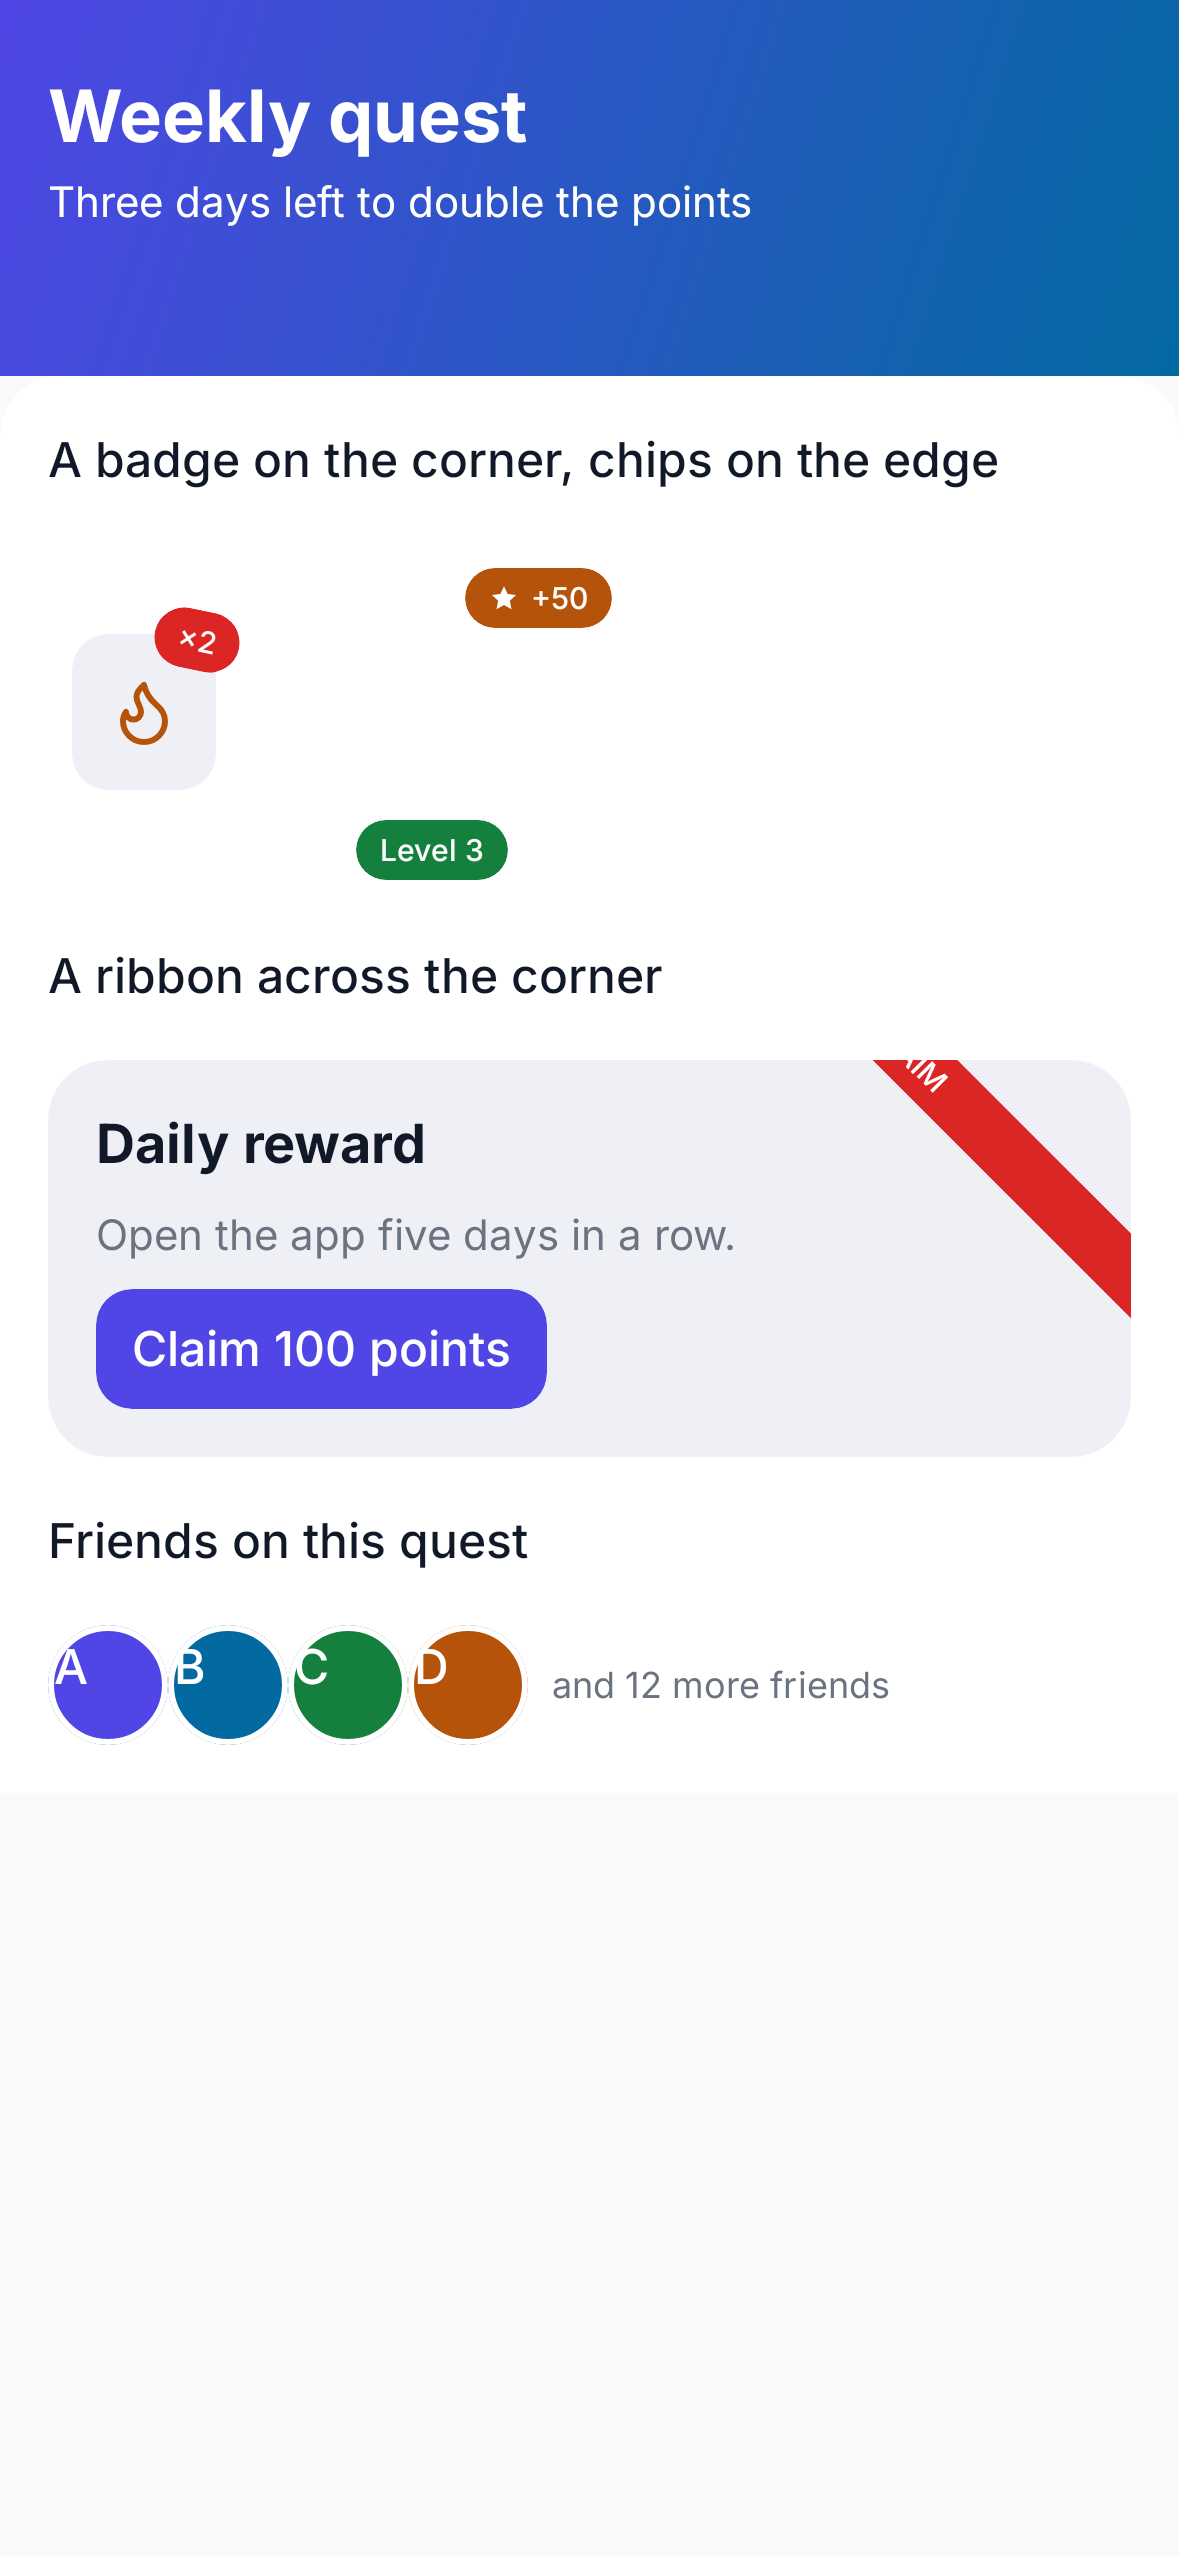
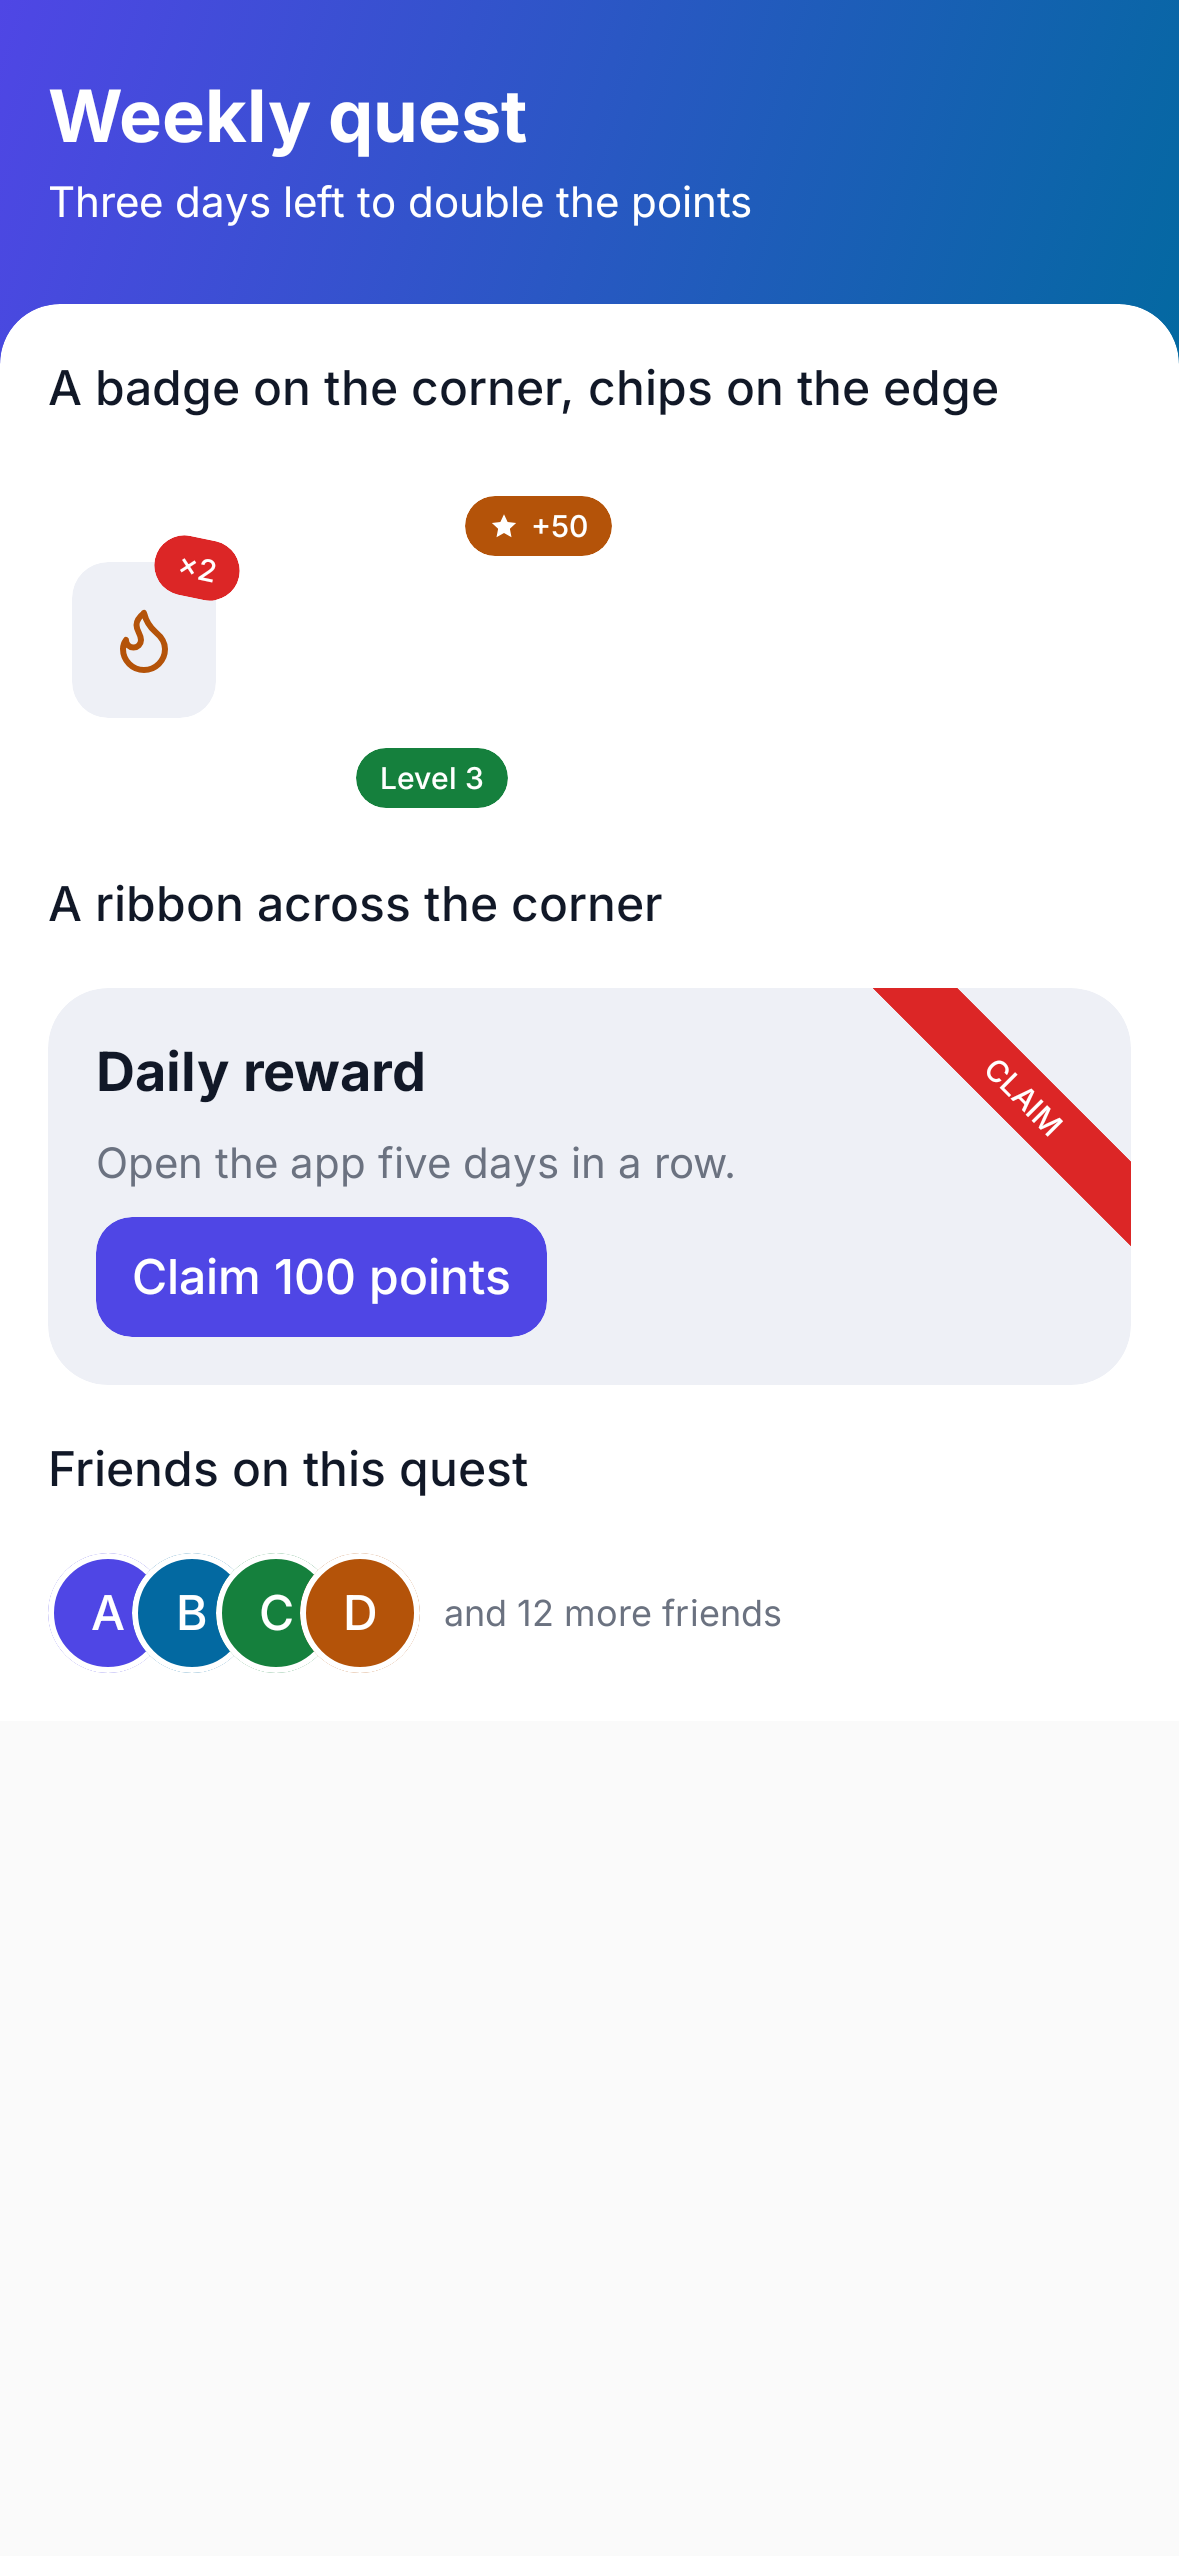
Pull and named sizes as content size; alignment frames; notes

diff --git a/hotlayout/src/test/kotlin/com/hotlayout/PullCasesTest.kt b/hotlayout/src/test/kotlin/com/hotlayout/PullCasesTest.kt
@@ -1,0 +1,122 @@
+package com.hotlayout
+
+import androidx.activity.ComponentActivity
+import androidx.compose.foundation.layout.Box
+import androidx.compose.foundation.layout.fillMaxWidth
+import androidx.compose.foundation.layout.height
+import androidx.compose.foundation.layout.width
+import androidx.compose.runtime.getValue
+import androidx.compose.runtime.mutableStateOf
+import androidx.compose.runtime.setValue
+import androidx.compose.ui.Modifier
+import androidx.compose.ui.layout.onGloballyPositioned
+import androidx.compose.ui.layout.positionInParent
+import androidx.compose.ui.test.junit4.createAndroidComposeRule
+import androidx.compose.ui.unit.dp
+import com.hotlayout.json.JsonObject
+import com.hotlayout.json.JsonValue
+import com.hotlayout.model.DocumentNode
+import com.hotlayout.render.layout.AlignWord
+import com.hotlayout.render.layout.AlignedColumn
+import com.hotlayout.render.layout.AlignedRow
+import com.hotlayout.render.layout.FlowChild
+import com.hotlayout.render.layout.FlowPull
+import com.hotlayout.render.layout.JustifyWord
+import com.hotlayout.render.layout.RowKind
+import com.hotlayout.support.Contract
+import com.hotlayout.support.name
+import org.junit.Assert.assertEquals
+import org.junit.Assert.assertNull
+import org.junit.Rule
+import org.junit.Test
+import org.junit.runner.RunWith
+import org.robolectric.RobolectricTestRunner
+import org.robolectric.annotation.Config
+import org.robolectric.annotation.GraphicsMode
+
+/** `pull` against `offset/offset-cases.json`: the arithmetic of a flow, which nodes read the field, and the real layouts. */
+@RunWith(RobolectricTestRunner::class)
+@GraphicsMode(GraphicsMode.Mode.NATIVE)
+@Config(qualifiers = "w360dp-h640dp-mdpi")
+class PullCasesTest {
+    @get:Rule val compose = createAndroidComposeRule<ComponentActivity>()
+
+    private val table get() = Contract.json("fixtures/offset/offset-cases.json")
+    private fun num(value: JsonValue?) = value?.number ?: 0.0
+
+    @Test fun pullFlowCases() {
+        val rows = Contract.rows(table, "pullCases")
+        assertEquals(10, rows.size)
+        for (row in rows) {
+            val items = row["children"]?.array.orEmpty().mapNotNull { it.obj }
+            val (starts, size) = FlowPull.flow(items.map { num(it["size"]) }, items.map { num(it["pull"]) }, num(row["gap"]))
+            assertEquals(row.name(), row["starts"]?.array.orEmpty().map { num(it) }, starts)
+            assertEquals(row.name(), num(row["size"]), size, 0.0)
+        }
+    }
+
+    @Test fun pullReadCases() {
+        val rows = Contract.rows(table, "pullReadCases")
+        assertEquals(20, rows.size)
+        for (row in rows) {
+            val node = DocumentNode("n", row["nodeType"]?.string ?: "Text", fields = row["node"]?.obj ?: JsonObject())
+            val read = FlowPull.read(node, row["parent"]?.string ?: "", row["parentProps"]?.obj ?: JsonObject())
+            val expect = row["expect"]
+            if (expect?.obj == null) {
+                assertNull(row.name(), read)
+            } else {
+                assertEquals(row.name(), expect["by"], read?.first)
+                assertEquals(row.name(), expect["axis"]?.string, if (read?.second == FlowPull.Axis.Row) "row" else "column")
+            }
+        }
+    }
+
+    private class Run(val axis: String, val sizes: List<Double>, val pulls: List<Double>, val gap: Double)
+
+    private var current by mutableStateOf<Run?>(null)
+    private val found = HashMap<Int, Pair<Double, Double>>()
+    private var shown = false
+
+    /** Each row of `pullCases` through the real layouts: children are boxes of the sizes, the container is as long as the table says. */
+    @Test fun pulledFlowsAreLaidOutWhereTheTableSays() {
+        for (row in Contract.rows(table, "pullCases")) {
+            val items = row["children"]?.array.orEmpty().mapNotNull { it.obj }
+            val starts = row["starts"]?.array.orEmpty().map { num(it) }
+            for (axis in listOf("column", "row")) {
+                found.clear()
+                current = Run(axis, items.map { num(it["size"]) }, items.map { num(it["pull"]) }, num(row["gap"]))
+                if (!shown) {
+                    shown = true
+                    compose.setContent { current?.let { Host(it) } }
+                }
+                compose.waitForIdle()
+                for (index in items.indices) {
+                    val at = found[index] ?: error("child $index not drawn")
+                    assertEquals("${row.name()} [$axis, child $index]", starts[index], if (axis == "row") at.first else at.second, 0.51)
+                }
+            }
+        }
+    }
+
+    @androidx.compose.runtime.Composable
+    private fun Host(run: Run) {
+        androidx.compose.runtime.key(run) {
+            val content: @androidx.compose.runtime.Composable () -> Unit = {
+                run.sizes.forEachIndexed { index, size ->
+                    val box = if (run.axis == "row") Modifier.width(size.dp).height(20.dp) else Modifier.fillMaxWidth().height(size.dp)
+                    Box(
+                        box.then(FlowChild(pull = run.pulls[index], kind = RowKind.Named, stretch = true)).onGloballyPositioned {
+                            val at = it.positionInParent()
+                            found[index] = at.x.toDouble() to at.y.toDouble()
+                        },
+                    )
+                }
+            }
+            if (run.axis == "row") {
+                AlignedRow(run.gap, JustifyWord.Start, AlignWord.Start, null, false, Modifier.fillMaxWidth(), content)
+            } else {
+                AlignedColumn(run.gap, AlignWord.Start, JustifyWord.Start, null, null, false, Modifier.fillMaxWidth(), content)
+            }
+        }
+    }
+}

diff --git a/hotlayout/src/main/kotlin/com/hotlayout/render/layout/FlowPull.kt b/hotlayout/src/main/kotlin/com/hotlayout/render/layout/FlowPull.kt
@@ -27,9 +27,16 @@ internal object FlowPull {
         val axis = axis(parentType, parentProps) ?: return null
         if (child.type == "AppBar" || child.type == "NavBar") return null
         if (parentType == "Screen" && child.fields["pin"] != null) return null
-        val by = child.fields["pull"] ?: return null
+        val by = child.fields["pull"]?.takeIf { isSpacingReference(it) } ?: return null
         if (axis == Axis.Row && validWeight(child) != null) return null
         return by to axis
+    }
+
+    /** A spacing token (`^[a-z][a-zA-Z0-9]{0,39}$`) or a whole number of logical pixels 0…128; anything else is no pull. */
+    fun isSpacingReference(value: JsonValue): Boolean = when (value) {
+        is JsonValue.Num -> value.number?.let { it >= 0 && it <= 128 && it == Math.rint(it) } == true
+        is JsonValue.Str -> Regex("[a-z][a-zA-Z0-9]{0,39}").matches(value.value)
+        else -> false
     }
 
     /**

diff --git a/hotlayout/src/main/kotlin/com/hotlayout/render/NodeView.kt b/hotlayout/src/main/kotlin/com/hotlayout/render/NodeView.kt
@@ -52,7 +52,10 @@ internal fun NodeView(
     val action = node.props["action"]?.obj?.takeIf { node.type in pressableContainers && acts(it) }
     var outer = modifier.then(look.margin.paddingModifier())
     if (action != null) outer = outer.then(pressable(node, inner, action))
-    Box(outer.nodeBox(box.withoutMargin(), placement.stretchWidth, context.rightToLeft), propagateMinConstraints = false) {
+    // A named size is the size of the content too: a stack, a column or a row inside it fills that box and aligns
+    // its children by its own words (without this the content sat at the top start of the named box).
+    val named = box.width != null || box.height != null
+    Box(outer.nodeBox(box.withoutMargin(), placement.stretchWidth, context.rightToLeft), propagateMinConstraints = named) {
         Widget(WidgetCall(node, inner, style, placement, depth, parentType))
     }
 }

diff --git a/hotlayout/src/test/kotlin/com/hotlayout/TableCoverageTest.kt b/hotlayout/src/test/kotlin/com/hotlayout/TableCoverageTest.kt
@@ -24,7 +24,7 @@ class TableCoverageTest {
             "icon-text/orderCases", "icon-text/glyphCases", "icon-text/buttonSizeCases", "icon-text/iconButtonCases",
             "icon-text/nameCases", "icon-text/iconPathCases",
             "align/readCases", "align/heightSourceCases", "align/shiftCases", "align/boxCases", "align/screenCases", "align/ruleCases",
-            "offset/layerCases", "offset/layerReadCases", "offset/layerPlaceCases",
+            "offset/layerCases", "offset/layerReadCases", "offset/layerPlaceCases", "offset/pullCases", "offset/pullReadCases",
         )
 
         /** The wave a whole table belongs to (groups of it that the foundation runs are in [run]). */

diff --git a/demo/src/test/kotlin/com/hotlayout/demo/FixtureFramesTest.kt b/demo/src/test/kotlin/com/hotlayout/demo/FixtureFramesTest.kt
@@ -39,5 +39,11 @@ class FixtureFramesTest {
 
     @Test fun offsetDetails() = frame("offset-screens", "details")
 
+    @Test fun alignmentCentered() = frame("alignment-screens", "centered")
+
+    @Test fun alignmentAxes() = frame("alignment-screens", "axes")
+
+    @Test fun alignmentBottom() = frame("alignment-screens", "bottom")
+
     @Test fun minimalScreen() = frame("minimal-screen", null)
 }

diff --git a/NOTES.md b/NOTES.md
@@ -71,8 +71,23 @@ see what a device shows. Rows that differ are listed by name in `TemplateCasesTe
 - An overlay is PLACED by the layout (logical start, mirrored by `placeRelative`) and turned with a layer
   transform, so touches follow the drawing. Compose widens the touch area of a target smaller than 48 dp, so
   a pixel on the very edge of a small turned overlay may still hit; the tests use targets above that size.
-- Not built here: `pull` (`offset/pullCases`, `pullReadCases`) lives in the flow layouts of the alignment zone.
+- `pull` (`offset/pullCases`, `pullReadCases`) is read and laid out by the flow layouts (`render/layout/FlowPull.kt`).
 - A named icon box (`style.width` / `height`) now centres the glyph (it stood top-left).
+
+## Alignment and flow layouts
+
+- Column and row are own `Layout`s (`AlignedColumn`, `AlignedRow` in `render/layout/AlignedLayouts.kt`); the rules are pure
+  (`AlignRules`) and the layouts only measure and call them. Children hand `pull`, weight and width kind through `FlowChild`
+  (parent data).
+- Free height exists only with a source: `style.height`, `style.minHeight`, a stack fill (`fills`, for the stack zone to pass),
+  or the visible body of the page screen (`LocalScreenBodyHeight`, provided by `ScreenRoot`). A layer as tall as its content has none.
+  Screen anatomy (wave 2) must keep providing `LocalScreenBodyHeight` (the body area) and pass `ignoresFirstPull` for the top zone.
+- Natural widths come from intrinsic measurements (`maxIntrinsicWidth`), so a widget that sits in a row must implement them.
+- A named `style.width` / `style.height` is the size of the content too (`NodeView` passes min constraints on): a stack or a
+  column inside fills it and aligns by its own words.
+- Rows: `scrollable` children are bound by the viewport (stretching ones take it); `wrap` is a `FlowRow` (gap on both axes);
+  a row not given its width tightly is as wide as its content and has no shares. `Row.wrap` + `scrollable`: scroll wins.
+- `Screen.justify` is not read when the content scrolls (free space is zero).
 
 ## Zones of the code for parallel waves
 
@@ -91,7 +106,7 @@ Family files (one zone per agent):
 
 | Wave | Zone | Files |
 |---|---|---|
-| 1 | alignment | `render/layout/FlowLayouts.kt` (`ColumnWidget`, `RowWidget`: `justify`, free height, `pull`) |
+| 1 | alignment | `render/layout/` (done) |
 | 1 | text | `render/widgets/TextWidget.kt`, `render/TextStyles.kt` (spans, markers, gradient) |
 | 1 | lists | new `render/widgets/Lists*.kt` (`Repeater`, `Grid`, `ListTile`, `Accordion`, `Tabs`) |
 | 1 | stack | `render/widgets/Stack*.kt` (`Stack`, `layer`, `fill`) — built |
